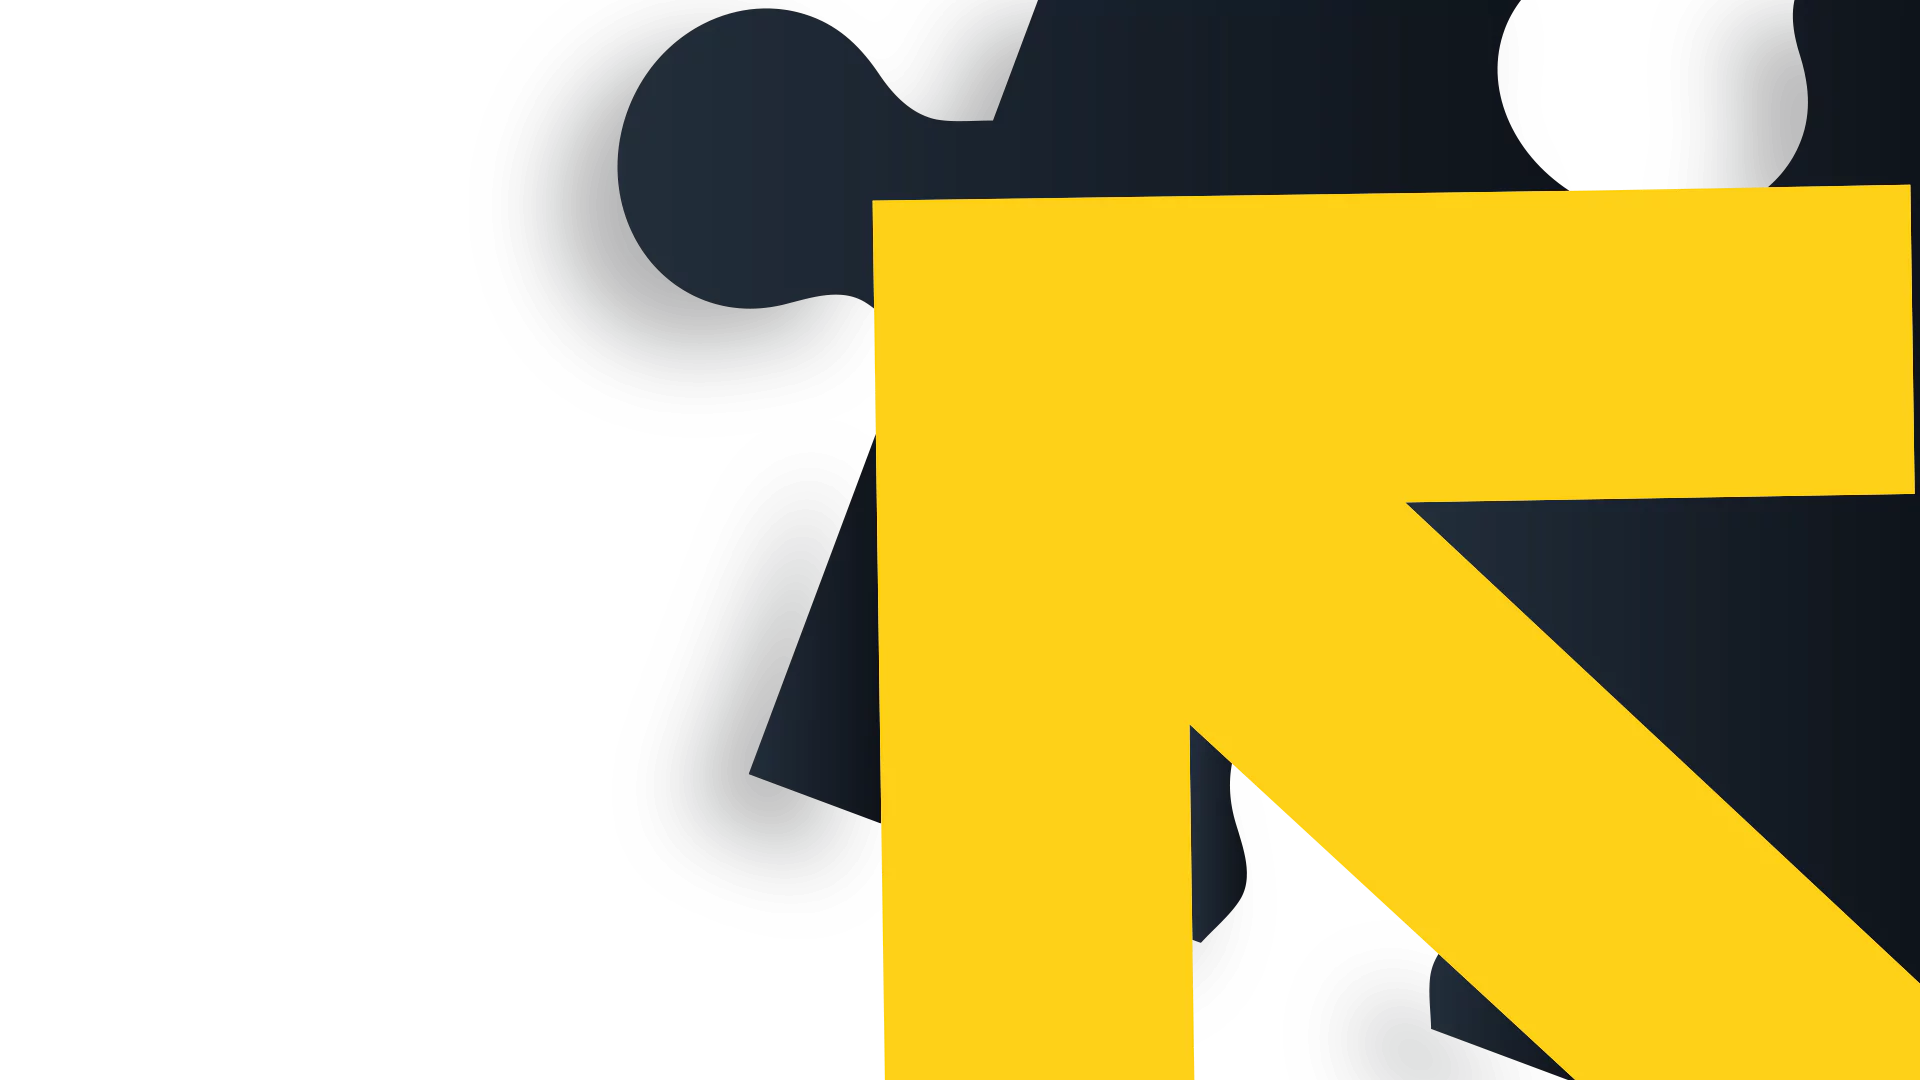
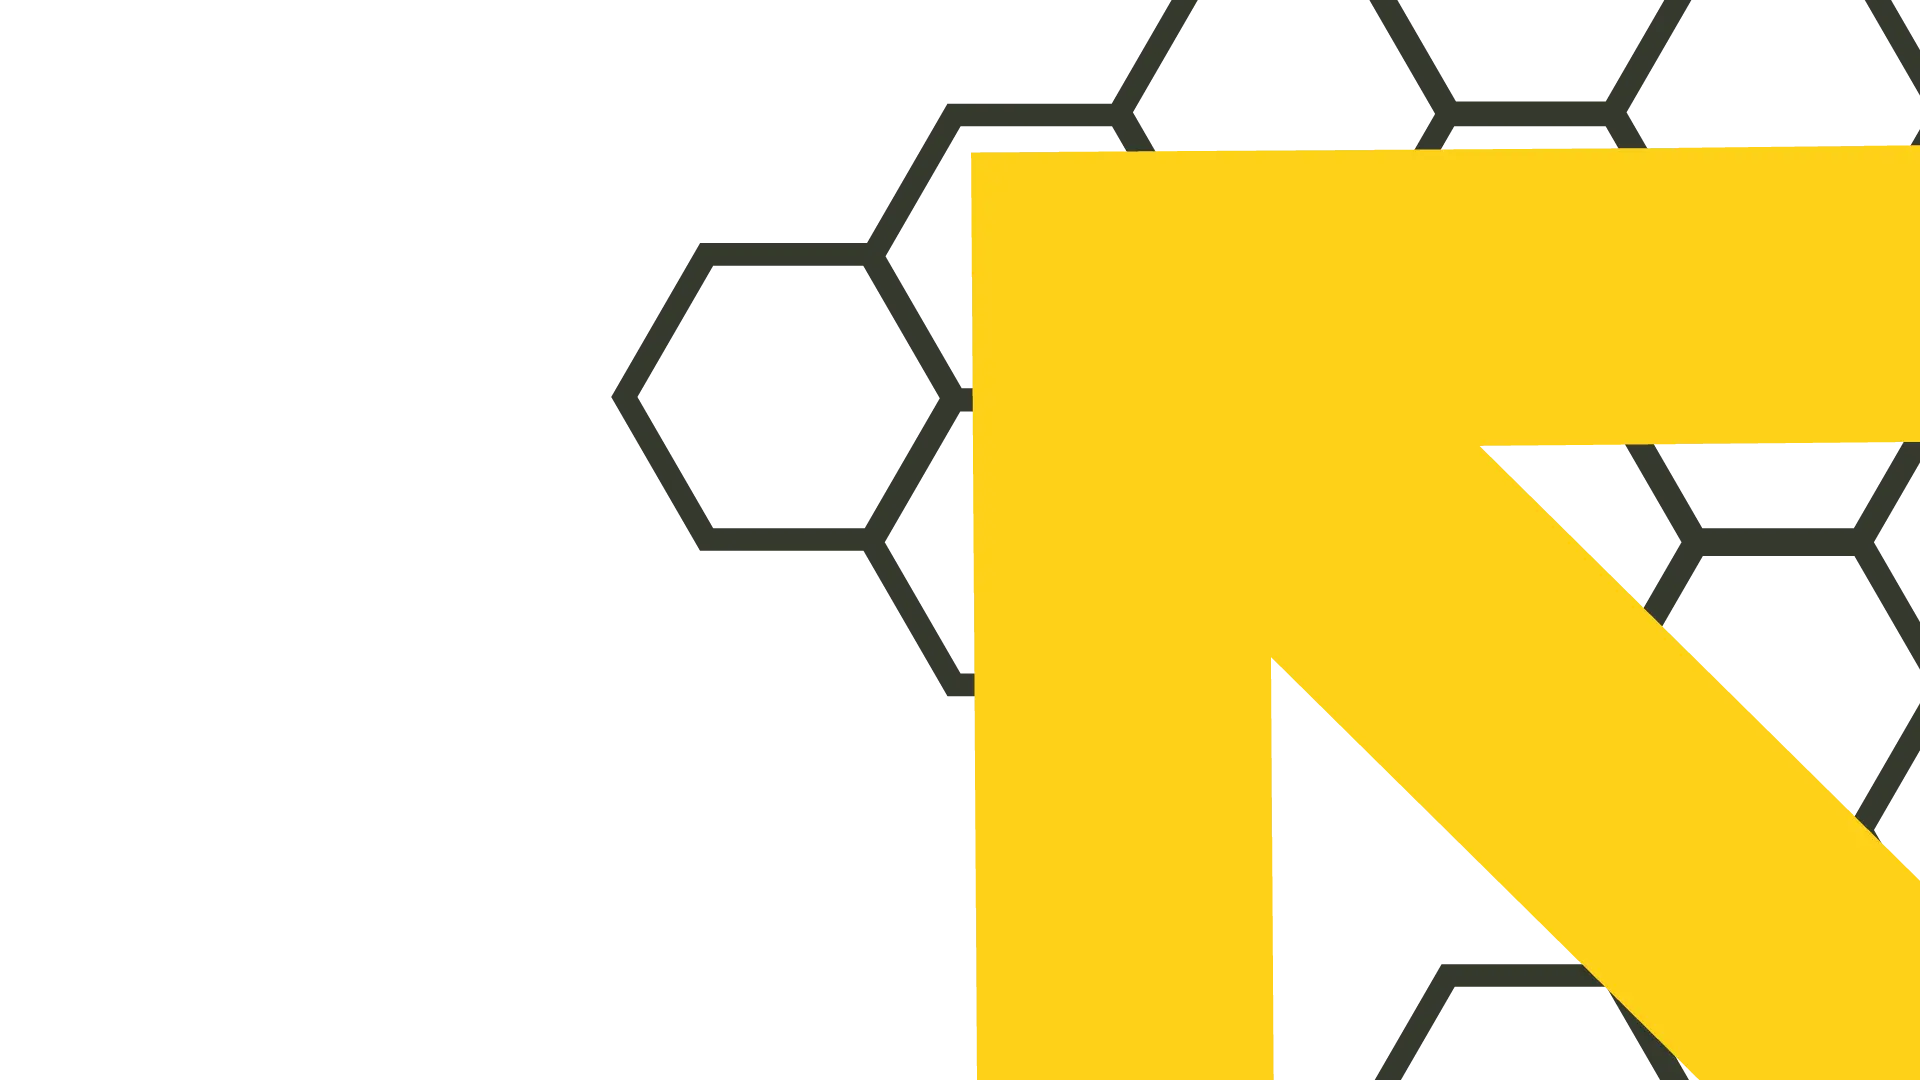
updated background, and added opacity

diff --git a/src/components/Topgd.js b/src/components/Topgd.js
@@ -1,87 +1,71 @@
 import React from 'react';
-import { Grid, Box, Typography, Button } from '@mui/material';
+import { Box, Typography, Grid } from '@mui/material';
 import SendIcon from '@mui/icons-material/Send';
 import Photobg from '../assets/pagegd/top.webp';
-import Photobgm from '../assets/pagegd/topmob.webp';
 import Logo from '../assets/page/logoabk.webp';
 import { useTranslation } from 'react-i18next';
+import { useTheme } from '@mui/material/styles';
 
 function Top() {
-  const responsiveBackground = {
-    backgroundImage: {
-      xs: `url(${Photobgm})`,
-      sm: `url(${Photobg})`,
-    },
-    backgroundRepeat: 'no-repeat',
-    backgroundSize: { xs: '50%', sm: 'contain' },
-    backgroundPosition: { xs: 'bottom right', sm: 'top right' },
-    width: '100%',
-    minHeight: { xs: '100vh', sm: 'auto', lg: '100vh' },
-    display: 'flex',
-    justifyContent: { xs: 'center', md: 'flex-start' },
-    alignItems: 'center',
-  };
   const { t } = useTranslation();
 
-  const containerStyles = {
-    pl: { xs: 2, sm: '3vw', md: '4vw', lg: '4vw', xl: '10vw' },
-    pt: { xs: '5%', sm: 10, lg: '0' },
-    width: { xs: '80%', sm: 'auto', lg: '40%', xl: '100%' },
-  };
-
-  const logoPosition = {
-    position: { xs: 'absolute', sm: 'relative', lg: 'absolute', xl: 'relative' },
-    top: { xs: '10%', sm: 'auto', lg: '15%', xl: 'auto' },
-    left: { xs: '5%', sm: 'auto', }
-  };
-
   return (
-    <Box sx={responsiveBackground}>
-      <Grid container spacing={2} direction="column"
-        justifyContent={{ xs: 'center', sm: 'flex-start' }}
-        alignItems={{ xs: 'center', sm: 'flex-start' }}
-        sx={containerStyles}
-      >
-        <Grid item sx={{ mb: 5 }}>
-          <Box component="img" src={Logo} alt="logoabk" sx={logoPosition} />
-        </Grid>
-        <Grid item>
-          <Box display={{ xs: 'none', xl: 'block' }}>
-            <Typography variant="h2" sx={{ ml: -2, fontWeight: 'bold', textAlign: { xs: 'center', md: 'left' } }}>
-              {t('jobFair')}
-            </Typography>
-          </Box>
-        </Grid>
-
-        <Grid container direction="column" alignItems={{ xs: 'center', sm: 'flex-start' }} sx={{ maxWidth: { xs: '100%', sm: '40%', md: '40%', lg: '100%' } }}>
-          <Grid item>
-            <Typography variant='h5' sx={{ fontWeight: 'bold', pb: { xs: 3, xl: '0', }, textAlign: { xs: 'center', sm: 'left' } }}>
-              {t('springEditiongd')}
-            </Typography>
+    <>
+      <Box
+        sx={{
+          backgroundImage: `url(${Photobg})`,
+          backgroundPosition: 'right',
+          backgroundRepeat: 'no-repeat',
+          backgroundSize: { xs: 'cover', xl: 'contain' },
+          minHeight: '100vh',
+          maxHeight: '100vh',
+          display: 'flex',
+          alignItems: 'center',
+          justifyContent: 'flex-start',
+          opacity: { xs: 0.3, xl: 1 },
+        }}
+      ></Box>
+      <Box sx={{ position: 'absolute', display: 'flex', justifyContent: 'center', alignItems: 'center', }}>
+        <Grid container spacing={2} direction="column">
+          <Grid item sx={{ mb: 5, position: 'relative' }}>
+            <Box component="img" src={Logo} alt="logoabk" sx={{ position: 'absolute', top: '10%', left: '5%' }} />
           </Grid>
+          <Box sx={{ pl: { xs: 3, sm: 10 }, pt: 5 }}>
+            <Grid item xs>
+              <Typography variant="h2" sx={{ fontWeight: 'bold', textAlign: { xs: 'center', md: 'left' }, display: { xs: 'none', xl: 'block' } }}>
+                {t('jobFair')}
+              </Typography>
+            </Grid>
 
-          <Grid item>
-            <Typography sx={{ fontSize: '1.2rem', textAlign: { xs: 'center', sm: 'left' } }}>
-              {t('studentInfo')} <br />
-              {t('studentInfo1')} <br /><br />
-              {t('timeAndPlacegd')}
-            </Typography>
-          </Grid>
-        </Grid>
+            <Grid item xs>
+              <Typography variant="h5" sx={{ fontWeight: 'bold', pb: 3, textAlign: { xs: 'center', sm: 'left' } }}>
+                {t('springEditiongd')}
+              </Typography>
+              <Typography sx={{ fontSize: '1.2rem', textAlign: { xs: 'center', sm: 'left' } }}>
+                {t('studentInfo')} <br />
+                {t('studentInfo1')} <br /><br />
+                {t('timeAndPlacegd')}
+              </Typography>
+            </Grid>
 
-        <Grid item>
+
+            {/* Zakomentowany Button, jeśli chcesz go użyć, wystarczy odkomentować */}
+            {/* <Grid item>
           <Button
             variant="contained"
             endIcon={<SendIcon />}
             sx={{ backgroundColor: '#ffe200', color: 'black', borderRadius: '20px' }}
-            onClick={() => window.open('https://forms.gle/C3RB1gDNqL6hi5YR9', '_blank')}
+            onClick={() => window.open('https://forms.gle/tLwr66SCHJx1PzpT9', '_blank')}
           >
             {t('participate')}
           </Button>
+        </Grid> */}
+
+          </Box>
         </Grid>
-      </Grid>
-    </Box >
+      </Box>
+    </>
   );
-};
+}
 
 export default Top;

diff --git a/src/components/Top.js b/src/components/Top.js
@@ -1,75 +1,56 @@
 import React from 'react';
-import { Grid, Box, Typography, Button } from '@mui/material';
+import { Box, Typography, Grid } from '@mui/material';
 import SendIcon from '@mui/icons-material/Send';
 import Photobg from '../assets/page/top.webp';
-import Photobgm from '../assets/page/topmob.png';
 import Logo from '../assets/page/logoabk.webp';
 import { useTranslation } from 'react-i18next';
+import { useTheme } from '@mui/material/styles';
 
 function Top() {
-  const responsiveBackground = {
-    backgroundImage: {
-      xs: `url(${Photobgm})`,
-      sm: `url(${Photobg})`,
-    },
-    backgroundRepeat: 'no-repeat',
-    backgroundSize: { xs: '50%', sm: 'contain' },
-    backgroundPosition: { xs: 'bottom right', sm: 'top right' },
-    width: '100%',
-    minHeight: { xs: '100vh', sm: 'auto', lg: '100vh' },
-    display: 'flex',
-    justifyContent: { xs: 'center', md: 'flex-start' },
-    alignItems: 'center',
-  };
   const { t } = useTranslation();
 
-  const containerStyles = {
-    pl: { xs: 2, sm: '3vw', md: '4vw', lg: '4vw', xl: '10vw' },
-    pt: { xs: '5%', sm: 10, lg: '0' },
-    width: { xs: '80%', sm: 'auto', lg: '40%', xl: '100%' },
-  };
-
-  const logoPosition = {
-    position: { xs: 'absolute', sm: 'relative', lg: 'absolute', xl: 'relative' },
-    top: { xs: '10%', sm: 'auto', lg: '15%', xl: 'auto' },
-    left: { xs: '5%', sm: 'auto', }
-  };
-
   return (
-    <Box sx={responsiveBackground}>
-      <Grid container spacing={2} direction="column"
-        justifyContent={{ xs: 'center', sm: 'flex-start' }}
-        alignItems={{ xs: 'center', sm: 'flex-start' }}
-        sx={containerStyles}
-      >
-        <Grid item sx={{ mb: 5 }}>
-          <Box component="img" src={Logo} alt="logoabk" sx={logoPosition} />
-        </Grid>
-        <Grid item>
-          <Box display={{ xs: 'none', xl: 'block' }}>
-            <Typography variant="h2" sx={{ ml: -2, fontWeight: 'bold', textAlign: { xs: 'center', md: 'left' } }}>
-              {t('jobFair')}
-            </Typography>
-          </Box>
-        </Grid>
-
-        <Grid container direction="column" alignItems={{ xs: 'center', sm: 'flex-start' }} sx={{ maxWidth: { xs: '100%', sm: '40%', md: '40%', lg: '100%' } }}>
-          <Grid item>
-            <Typography variant='h5' sx={{ fontWeight: 'bold', pb: { xs: 3, xl: '0', }, textAlign: { xs: 'center', sm: 'left' } }}>
-              {t('springEdition')}
-            </Typography>
+    <>
+      <Box
+        sx={{
+          backgroundImage: `url(${Photobg})`,
+          backgroundPosition: 'right',
+          backgroundRepeat: 'no-repeat',
+          backgroundSize: { xs: 'cover', xl: 'contain' },
+          minHeight: '100vh',
+          maxHeight: '100vh',
+          display: 'flex',
+          alignItems: 'center',
+          justifyContent: 'flex-start',
+          opacity: { xs: 0.3, xl: 1 },
+        }}
+      ></Box>
+      <Box sx={{ position: 'absolute', display: 'flex', justifyContent: 'center', alignItems: 'center', }}>
+        <Grid container spacing={2} direction="column">
+          <Grid item sx={{ mb: 5, position: 'relative' }}>
+            <Box component="img" src={Logo} alt="logoabk" sx={{ position: 'absolute', top: '10%', left: '5%' }} />
           </Grid>
+          <Box sx={{ pl: { xs: 3, sm: 10 }, pt: 5 }}>
+            <Grid item xs>
+              <Typography variant="h2" sx={{ fontWeight: 'bold', textAlign: { xs: 'center', md: 'left' }, display: { xs: 'none', xl: 'block' } }}>
+                {t('jobFair')}
+              </Typography>
+            </Grid>
 
-          <Grid item>
-            <Typography sx={{ fontSize: '1.2rem', textAlign: { xs: 'center', sm: 'left' } }}>
-              {t('studentInfo')} <br />
-              {t('studentInfo1')} <br /><br />
-              {t('timeAndPlace')}
-            </Typography>
-          </Grid>
-        </Grid>
+            <Grid item xs>
+              <Typography variant="h5" sx={{ fontWeight: 'bold', pb: 3, textAlign: { xs: 'center', sm: 'left' } }}>
+                {t('springEdition')}
+              </Typography>
+              <Typography sx={{ fontSize: '1.2rem', textAlign: { xs: 'center', sm: 'left' } }}>
+                {t('studentInfo')} <br />
+                {t('studentInfo1')} <br /><br />
+                {t('timeAndPlace')}
+              </Typography>
+            </Grid>
 
-        {/* <Grid item>
+
+            {/* Zakomentowany Button, jeśli chcesz go użyć, wystarczy odkomentować */}
+            {/* <Grid item>
           <Button
             variant="contained"
             endIcon={<SendIcon />}
@@ -79,9 +60,12 @@ function Top() {
             {t('participate')}
           </Button>
         </Grid> */}
-      </Grid>
-    </Box >
+
+          </Box>
+        </Grid>
+      </Box>
+    </>
   );
-};
+}
 
 export default Top;

diff --git a/src/App.js b/src/App.js
@@ -56,13 +56,20 @@ function WarszawaComponent() {
 
   return (
     <>
-      <Top />
+      <Box sx={{
+        display: 'flex',
+        flexDirection: 'column',
+        justifyContent: 'center',
+        maxHeight: '100vh',
+        maxWidth: '100vw',
+      }}>
+        <Top />
+      </Box>
       <Box sx={{
         display: 'flex',
         flexDirection: 'column',
         justifyContent: 'center',
         minHeight: '100vh',
-        mt: 3,
         maxWidth: '100vw',
         backgroundColor: 'gray',
         py: 3,
@@ -81,7 +88,7 @@ function WarszawaComponent() {
       <Box sx={{ maxWidth: '100vw' }}>
         <Partnership />
       </Box>
-      <Box sx={{ maxWidth: '100vw' }}>
+      <Box sx={{ maxWidth: '100vw', pt: 15 }}>
         <Footer />
       </Box>
       <Nav />
@@ -93,13 +100,20 @@ function WarszawaComponent() {
 function GdanskComponent() {
   return (
     <>
-      <Topgd />
+      <Box sx={{
+        display: 'flex',
+        flexDirection: 'column',
+        justifyContent: 'center',
+        maxHeight: '100vh',
+        maxWidth: '100vw',
+      }}>
+        <Topgd />
+      </Box>
       <Box sx={{
         display: 'flex',
         flexDirection: 'column',
         justifyContent: 'center',
         minHeight: '100vh',
-        mt: 3,
         maxWidth: '100vw',
         backgroundColor: 'gray',
         py: 3,
@@ -115,7 +129,7 @@ function GdanskComponent() {
       <Box sx={{ maxWidth: '100vw' }}>
         <Gallerygd />
       </Box>
-      <Box sx={{ maxWidth: '100vw', mt: 12 }}>
+      <Box sx={{ maxWidth: '100vw', }}>
         <Partnershipgd />
       </Box>
       <Box sx={{ maxWidth: '100vw' }}>
